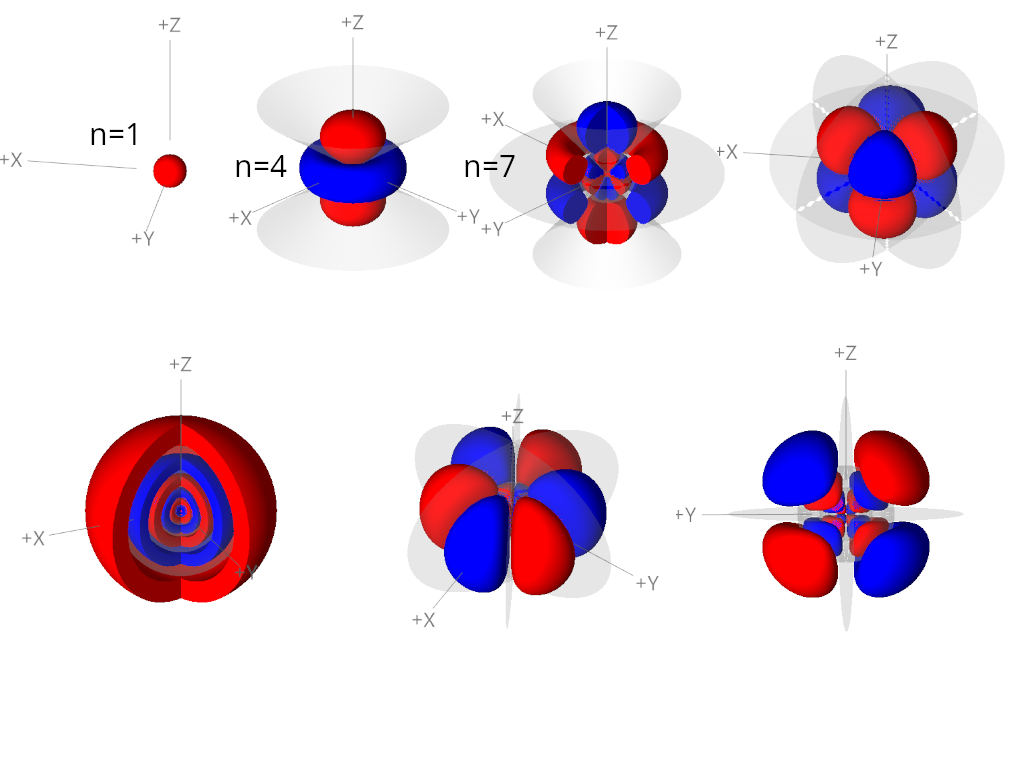
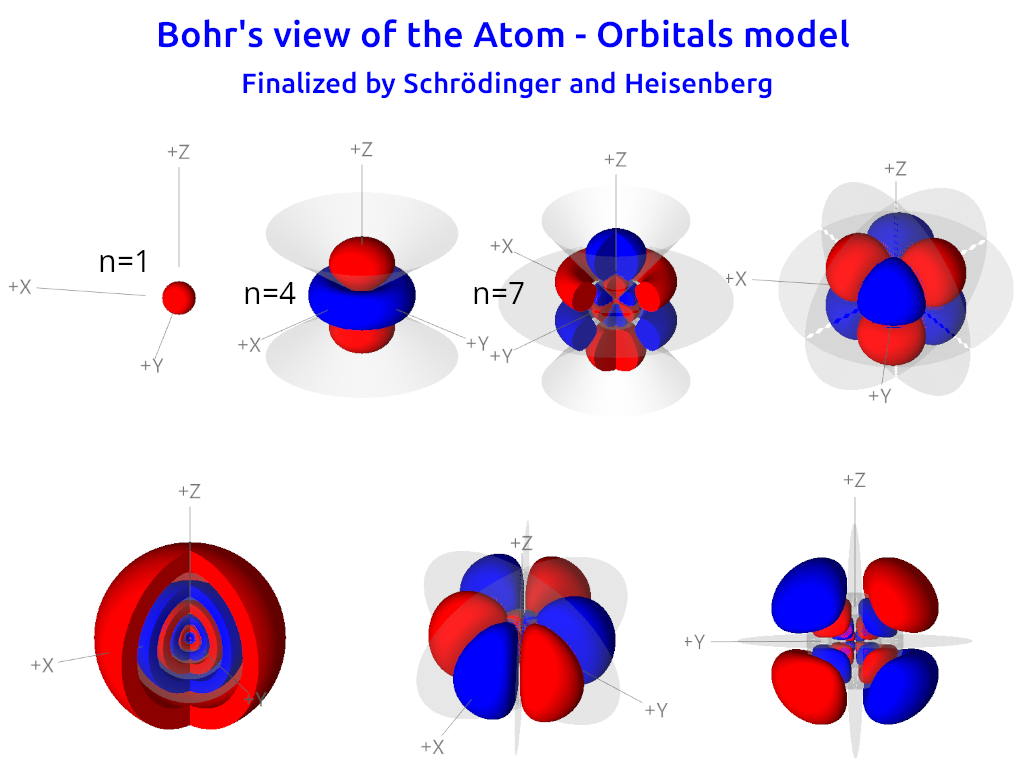
added the first 2 atom models and improved the last 2

diff --git a/electricity.html b/electricity.html
@@ -155,6 +155,8 @@
                         { title: "Physics terms (5)",               file: "electricity/physics/physics_terms5.svg" },
                         { title: "Physics terms (6)",               file: "electricity/physics/physics_terms6.svg" },
                         { title: "Electrical terms (1)",            file: "electricity/physics/electric_terms1.svg" },
+                        { title: "Initial model",                   file: "electricity/physics/initial_model.svg" },
+                        { title: "Thomson's model",                 file: "electricity/physics/thomsons_model.png" },
                         { title: "Planetary model",                 file: "electricity/physics/planetary_model.png" },
                         { title: "Orbitals model",                  file: "electricity/physics/orbitals_model.png" },
                         { title: "Energy levels",                   file: "electricity/physics/energy_levels.png" },
